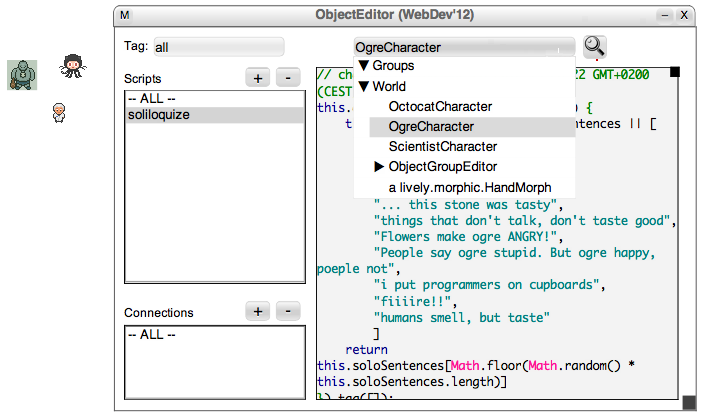
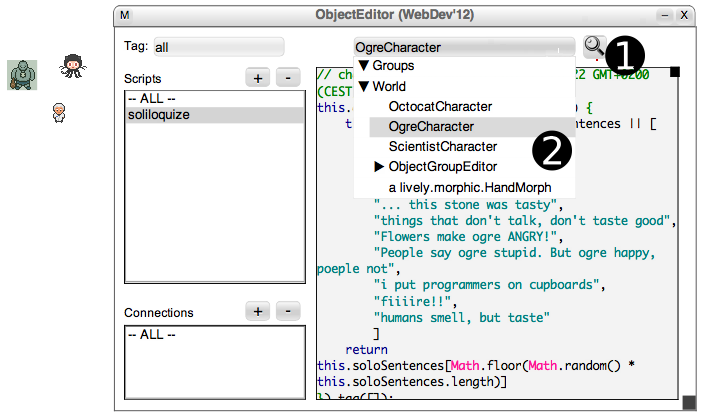
group editor imgs

Changed region(s): [[0.8376, 0.0625, 0.9274, 0.1875], [0.7479, 0.3125, 0.8376, 0.4062]]

diff --git a/sections/5_implementation.tex b/sections/5_implementation.tex
@@ -8,9 +8,17 @@ group members and edits them simultaneously.
 \paragraph{Defining Groups}
 
 Our extended Object Editor, shown
-in~\autoref{fig:group-editor}\todo{figure}, supports all three
+in~\autoref{fig:group-editor}, supports all three
 selection mechanisms of our approach: direct, scene-graph, and
-programmatic selection .
+programmatic selection.
+
+\begin{figure}
+  \centering
+  \includegraphics[width=\linewidth]{images/group_editor}
+  \caption{Extended Object Editor with scene-graph representation and
+    object selection}
+  \label{fig:group-editor}
+\end{figure}
 
 For the direct selection, the editor provides a tool~\textcircled{1}
 to enter \emph{selection mode}, in which developers define groups by
